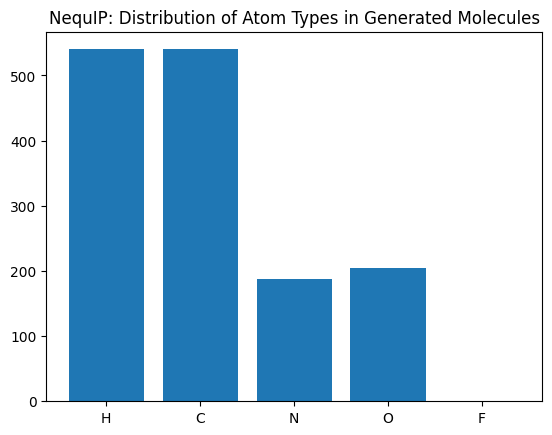
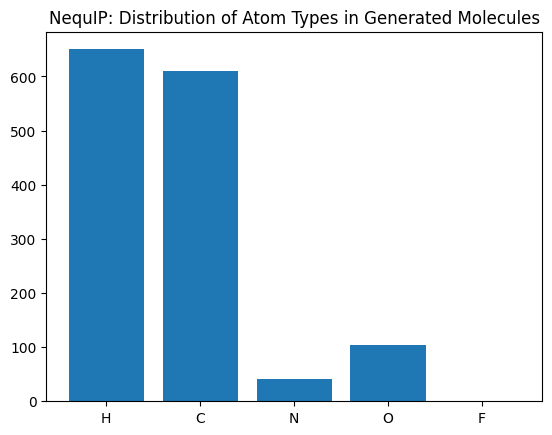
update plot_atom_type_hist for ase.Atoms

diff --git a/analyses/generate_plots.py b/analyses/generate_plots.py
@@ -5,6 +5,7 @@ from typing import Sequence, Dict
 from absl import app
 from absl import flags
 from absl import logging
+from ase.db import connect
 import os
 import pandas as pd
 import numpy as np
@@ -335,17 +336,17 @@ def plot_atom_type_hist(
         mol_path: str, outputdir: str, model: str
 ):
     """Creates a histogram of atom types for a given set of generated molecules."""
-    mol_dict = analysis.get_mol_dict(mol_path)
-
-    atom_type_list = np.array([])
-    for n_atoms in mol_dict:
-        for atoms in mol_dict[n_atoms][Properties.Z]:
-            atom_type_list = np.concatenate([atom_type_list, atoms])
+    molecules = []
+    with connect(mol_path) as conn:
+        for row in conn.select():
+            molecules.append(row.toatoms())
 
     atom_type_counts = {'H': 0, 'C': 0, 'N': 0, 'O': 0, 'F': 0}
     element_numbers = {1: 'H', 6: 'C', 7: 'N', 8: 'O', 9: 'F'}
-    for atom_type in atom_type_list:
-        atom_type_counts[element_numbers[atom_type]] += 1
+
+    for mol in molecules:
+        for atom in mol.numbers:
+            atom_type_counts[element_numbers[atom]] += 1
 
     plt.bar(atom_type_counts.keys(), atom_type_counts.values())
     # TODO make `model` auto-detected from path
